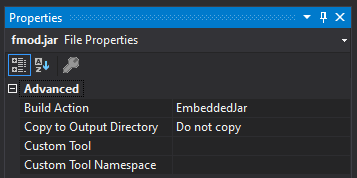
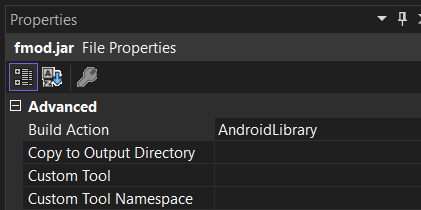
Updated readme.

diff --git a/README.md b/README.md
@@ -1,50 +1,58 @@
 
 
-![logo](/Icon/icon.png)
+![header](/pics/ebites.png)
 
-*I suffer so you won't have to.*
+
+[![nuget](https://badgen.net/nuget/v/FmodForFoxes?icon=nuget)](https://www.nuget.org/packages/FmodForFoxes)
+
+### Current FMOD version target: 2.02.08
+
+[**Join our Discord**](https://discord.gg/wgBb7cqGhC)
+
 
 The time has come. You're finally witnessing a high-level cross-platform C# library, which makes Monogame and FMOD best friends.
 
-![header](/pics/ebites.png)
+In case you've come here and the only thing you've understood so far was the doge meme, [FMOD](https://fmod.com) is a powerful cross-platform audio engine, which is pretty much the only hope to have any decent audio in Monogame. 
 
-In case you came here and the only thing you got so far was that hilarious doge meme, [FMOD](http://fmod.org) is quite powerful cross-platform audio engine, which is pretty much the only hope to have any decent audio in Monogame. 
-
-The catch is - FMOD is written in C++, and the only thing C# overlords have is a bare-bones C# wrapper. No tutorials, no setup guides. Only you and DllImport.
+The catch is - FMOD is written in C++, and unless you're using Unity, you're only getting a bare-bones C# wrapper. No tutorials, no setup guides. Only you and DllImport.
 
 ![send help](/pics/help.png)
 
 
-That's why this library exists. It does the tough part for you, and provides basic high-level interface. 
+That's why this library exists. It does the tough part for you and provides a basic high-level interface. 
 
-Also note that even though the primary target of this library is Monogame, its sources will be very useful if you want to use FMOD in some other C#-based project.
+Also note that even though the primary target of this library is Monogame, you can easily adapt it for any other C#-based project.
 
 ## Setup
 
-Initial setup is a little fiddly. Here's the thing - the FMOD license prohibits me from distributing their libraries in my Nuget package - so you'll have to download them yourself. 
+The initial setup is a little fiddly. Here's the thing - the FMOD license prohibits me from distributing their libraries in my Nuget package - so you have to download them yourself. 
 But fear not, I've put together a detailed guide. With pictures.
 
 ### Preparations
 
-Visit the [FMOD Download page](https://www.fmod.com/download) (accessing it requires registration), find the FMOD Studio API downloads and get APIs for Windows, Linux and Android. If you're going to set up all three, of course.
+Visit the [FMOD Download page](https://www.fmod.com/download) (accessing it requires registration), find the FMOD Studio API downloads and get APIs for Windows, Linux and Android (in case you want all three). If you're going to set up all three, of course.
 
-**NOTE: Current version of the library was tested on FMOD v2.00.08. I really recommend getting it. Later versions will probably also work, but I have no guarantee.**
+**NOTE: Current version of the library was tested on FMOD v2.02.08. I really recommend getting it. Later versions will probably also work, but I have no guarantee.**
 
 
 Windows API requires installation, Linux and Android don't. You can drop them near the Windows API just to have everything in one place.
 
 ![setup1](/pics/setup1.png)
 
+### Common logic
+
+In your crossplatform project, install 2. Install [FmodForFoxes](https://www.nuget.org/packages/FmodForFoxes/) NuGet package. It contains the API.
+
 ### Windows & Linux
 
-1. Open your DesktopGL or SharpDX Monogame project.
-2. Install the NuGet package [FmodForFoxes.Desktop](https://www.nuget.org/packages/FmodForFoxes.Desktop/). Alternatively, you can plug repo as a submodule and reference projects directly.
+1. Open your DesktopGL or WindowsDX Monogame project.
+2. Install the NuGet package [FmodForFoxes.Desktop](https://www.nuget.org/packages/FmodForFoxes.Desktop/). Alternatively, you can plug this repo as a submodule and reference projects directly.
 3. Navigate to your FMOD Windows API installation. From there navigate to `\api\core\lib`. You will see two directories: `x64` and `x86`. Each one will contain this:
 
 ![setup2](/pics/setup2.png)
 
 
-Out of all the files you'll need only `fmod.dll` from both `x86` and `x64` directories. Your Monogame project should already have `x86` and `x64` directories (if it doesn't - just create them). Copy corresponding versions of `fmod.dll` into them. You should end up with it looking like this:
+Out of all the files you'll need only `fmod.dll` and `fmodL.dll` from either `x86` or `x64` directories (`x64` highly recommended). The files engine with `L` mean that the library supports logging. They are used for debugging andf shoudl not be included into the final release. Copy `fmod.dll` and `fmodL.dll` to the root of your DesktopGL or WindowsDX project. Do the same for `\api\studio\lib` libs and you should end up with it looking like this:
 
 
 ![setup3](/pics/setup3.png)
@@ -57,23 +65,23 @@ Make sure dll files will be copied to the output directory:
 
 ![setup5](/pics/setup5.png)
 
-You'll need only `x86` and `x86_64`.
+You'll need only `x64` or `x86`.
 
 Each directory contains this:
 
 ![setup6](/pics/setup6.png)
 
-You will only need `libfmod` files - the ones without L. Copy fmod files from `x86` directory to `x86` directory of your project, and then copy files from `x86_64` to your `x64` directory. You'll end up with this:
+You will need all `libfmod` files from here. Copy fmod files from `x86` or `x64` directory the root of your project, same as on Windows. Do the same for `\api\studio\lib` libs and you'll end up with this:
 
 ![setup7](/pics/setup7.png)
 
-*NOTE: If you're going for Linux-only build, you can exclude fmod.dll files.*
+*NOTE: DesktopGL project works on both Linux and Windows, so you need to add the dll files there too.*
 
 Again, make sure all the files you've just added will be copied to the output directory:
 
 ![setup4](/pics/setup4.png)
 
-And that's it - you've gotten yourself cross-platform desktop FMOD! Dllmap for Linux is already done internally, no need to worry about that.
+And that's it - you've gotten yourself cross-platform desktop FMOD!
 
 ### Android
 
@@ -85,19 +93,19 @@ And that's it - you've gotten yourself cross-platform desktop FMOD! Dllmap for L
 ![setup8](/pics/setup8.png)
 
 5. Each folder contains `libfmod.so` and `libfmodL.so`. 
-You need only `libfmod.so` from each directory. Copy everything except `.jar` file over to your `libs` directory. Don't lose this jar, tho. We'll need it later. You'll end up with this:
+Copy everything except `.jar` file over to your `libs` directory. Don't lose this jar, tho. We'll need it later. Do the same for `\api\studio\lib` libs and you should end up with this:
 
 ![setup9](/pics/setup9.png)
 
-6. Select each `.so` file you've just copied, open their Properties and set their Build Action to `AndroidNativeLibrary`.
+1. Select each `.so` file you've just copied, open their Properties and set their Build Action to `AndroidNativeLibrary`.
 
 ![setup10](/pics/setup10.png)
 
-7. Create an **Android Bindings Project**.
+7. Create an **NET6 Android Bindings Project**.
 
    ![setup12](/pics/setup12.png)
 
-   Remember that jar from earlier? Now you need to copy it into the Jars directory and make sure its Build Action is set to `EmbeddedJar`.
+   Remember that jar from earlier? Now you need to copy it into the Jars directory and make sure its Build Action is set to `AndroidLibrary`.
 
    ![setup13](/pics/setup13.png)
 
@@ -105,15 +113,14 @@ You need only `libfmod.so` from each directory. Copy everything except `.jar` fi
 
    ![setup14](/pics/setup14.png)
 
-   And yes. Whole separate project for a single file. Thanks, Xamarin. There is actually a way to do this without creating a Bindings project, but that's up to you to figure out. : - )
 
 ### Studio setup
 
 FMOD Studio setup process is exactly the same, but you'll need to look into `studio` instead of `core` directories. 
-**It's also extremely important that ALL your dlls and jar are taken from the same version. 
+**It's also extremely important that ALL your binaries are the exact same version. 
 FMOD doesn't like version mixup. Foxes don't like version mixup. Nobody does.** 
 
-If you still have questions, take a look at the [Demos project](/FmodForFoxes.Samples).
+If you still have questions, take a look at the [Samples project](/Samples) that has everything set up for all platforms.
 
 ## Playing some tunes!
 
@@ -126,16 +133,19 @@ So, after you've set everything up, it's time to bop some pops, as kids say thes
 
 3. Include the `FmodForFoxes` namespace and paste the following code into your
 Initialize() method:
-```c#
-FMODManager.Init(FMODMode.CoreAndStudio, "Content");
+```cs
+FMODManager.Init(_nativeLibrary, FMODMode.CoreAndStudio, "Content");
 
 var sound = CoreSystem.LoadStreamedSound("test.mp3");
 var channel = sound.Play();
 channel.Looping = true;
 ```
+
+`_nativeLibrary` is an instance of `INativeFmodLibrary` that you have to create separately in your platform-specific projects. [Samples project](/FmodForFoxes.Samples) already has this set up.
+
 4. Compile and hope that you (and me) did everything right.
 
-You can also check out the incluided [Demos project](/FmodForFoxes.Samples). 
+You can also check out the incluided [Samples project](/FmodForFoxes.Samples). 
 
 ## But what about other platforms?
 
@@ -144,7 +154,7 @@ to do so, and probably won't have for a long time. As for UWP and Apple platform
 I just don't care about them enough. 
 
 If you want to be a hero and expand the library with any of those platforms yourself - 
-contact me and we'll figure something out. ; - )
+contact me and we'll figure something out.
 
 
 ## License and legal stuffs
